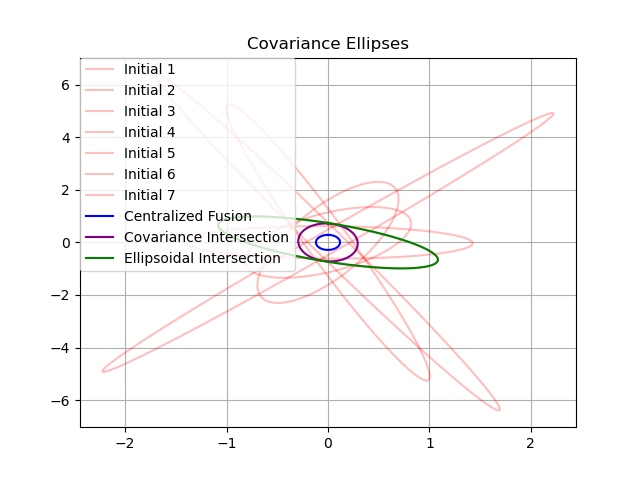
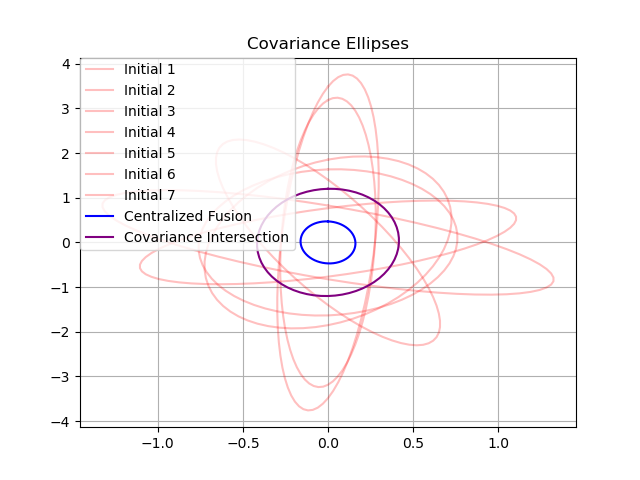
Ellipsoidal still does not work however does not crash entire thing

diff --git a/fusionAlgorithms/ellipsoidalIntersection.py b/fusionAlgorithms/ellipsoidalIntersection.py
@@ -1,45 +1,49 @@
 import numpy as np
 import numpy.linalg as LA
 from scipy.linalg import sqrtm
+from scipy.linalg import svd
 from tqdm import tqdm
 
+
 def eigen_decompostiion(A):
-    #A=S*D*S^-1
-    d, S = LA.eigh(A)
-    D = np.diag(d)
-    return S, D
+    U, s, _ = svd(A)
+    return U, np.diag(s)
 
 
 def EI_fusion(P_i_orig, P_j_orig, mu_i, mu_j):
+    P_i = np.copy(P_i_orig)
+    P_i_inv = LA.inv(P_i)
+    P_j = np.copy(P_j_orig)
+    P_j_inv = LA.inv(P_j)
+    dims = P_i_orig.shape[0]
     #Find mutual covariance and mutual mean
     #For mutual covariance perform eigen decomposition on P_i
-    P_i = np.copy(P_i_orig)
-    P_j = np.copy(P_j_orig)
-    dims = P_i.shape[0]
     S_i, D_i = eigen_decompostiion(P_i)
-    P_prime_j = LA.inv(D_i)**0.5 @ LA.inv(S_i) @ P_j @ S_i @ (LA.inv(D_i)**0.5)
+    D_i_sqrt = sqrtm(D_i)
+    D_i_inv_sqrt = LA.inv(D_i_sqrt)
+    P_prime_j =  np.dot(np.dot(np.dot(np.dot(D_i_inv_sqrt, LA.inv(S_i)), P_j), S_i), D_i_inv_sqrt) 
     S_j, D_j = eigen_decompostiion(P_prime_j)
-    D_T = np.diag([min(val, 1) for val in np.diagonal(D_j)])
-    P_mut = S_i @ D_i**0.5 @ S_j @ D_T @ LA.inv(S_j) @ D_i**0.5 @ LA.inv(S_i)
+    D_T = np.diag([max(val, 1) for val in np.diagonal(D_j)])
+    P_mut = np.dot(np.dot(np.dot(np.dot(np.dot(np.dot(S_i, D_i_sqrt), S_j), D_T), LA.inv(S_j)), D_i_sqrt), LA.inv(S_i))
     #Mutual Mean formula 
     #W_i = P_i^-1 - P_mut^-1 
     #W_j = P_j^-1 - P_mut^-1 
     #mut_mu = (W_i + W_j)^-1 * (W_i*mu_i + W_j * mu_j)
     #Cannot guarantee W_i and W_j are positive definite (Need to add slight identity matrix)    
-    H = LA.inv(P_i) + LA.inv(P_j)-2*LA.inv(P_mut)
+    H = LA.inv(P_i) + LA.inv(P_j)- np.multiply(2, LA.inv(P_mut))
     #H is a fishers matrix and represents input information (if 0 there is an issue)
+    P_mut_inv = LA.inv(P_mut)
     eta = 0
     if LA.det(H) == 0:
-        e_vals, _ = LA.eigh(H)
-        e_vals = np.where(e_vals==0, np.inf, e_vals)
-        eta = np.amin(e_vals)
-    if eta == np.inf:
-        print(eta)
-    eta_i = np.multiply(eta,np.identity(dims))
-    W_i = LA.inv(P_i) - LA.inv(P_mut) + eta_i
-    W_j = LA.inv(P_j) - LA.inv(P_mut) + eta_i
-    mu_mut = np.dot(LA.inv(np.add(W_i, W_j).real), np.dot(W_i, mu_i) + np.dot(W_j, mu_j))
-    P_fused = LA.inv(LA.inv(P_i.real) + LA.inv(P_j.real) - LA.inv(P_mut.real))
+        eig_H, _ = np.linalg.eigh(H)
+        smallest_nonzero_ev = min(list(filter(lambda x: x != 0, eig_H)))
+        eta = 0.0001 * smallest_nonzero_ev
+    eta_I = np.multiply(eta,np.identity(dims))
+    first_term = LA.inv(P_i_inv + P_j_inv - np.multiply(2, P_mut_inv) + np.multiply(2, eta_I))
+    second_term = np.dot(P_j_inv - P_mut_inv + eta_I, mu_i) + np.dot(P_i_inv - P_mut_inv + eta_I, mu_j)    
+    mu_mut = np.dot(first_term, second_term)
+    # mu_mut = np.dot(LA.inv(np.add(W_i, W_j)), np.dot(W_i, mu_i) + np.dot(W_j, mu_j))
+    P_fused = LA.inv(LA.inv(P_i) + LA.inv(P_j) - LA.inv(P_mut))
     mu_fused = np.dot(P_fused, np.dot(LA.inv(P_i), mu_i) + np.dot(LA.inv(P_j), mu_j) - np.dot(LA.inv(P_mut), mu_mut))
     return mu_fused, P_fused
 
@@ -56,16 +60,16 @@ def ellipsoidalIntersection(sensor_readings, sensor_covariances, N_time_steps, n
     print("Ellipsoidal Intersection...")
     for i in tqdm(range(N_time_steps)):
         for j in range(N_agents):
-            s_mu = sensor_readings[j]
-            s_cov = sensor_covariances[j]
+            s_mu = np.copy(sensor_readings[j])
+            s_cov = np.copy(sensor_covariances[j])
             for k in neighbors[j][0]:
-                s_mu, s_Cov = EI_fusion(s_cov, sensor_covariances[k], s_mu, sensor_readings[k])
+                s_mu, s_cov = EI_fusion(s_cov, sensor_covariances[k], s_mu, sensor_readings[k])
             next_data[j] = [s_mu, s_cov]
             if(calculate_KL):
-                dist = multivariate_normal(sensor_readings[j], sensor_covariances[j])
+                dist = multivariate_normal(next_data[j][0], next_data[j][1])
                 KL_div[j].append(compute_KL(true_dist, dist, KL_inp))
             if(calculate_det):
-                determinant_progression[j].append(LA.det(sensor_covariances[j]))
+                determinant_progression[j].append(LA.det(next_data[j][1]))
         for k in range(N_agents):
             sensor_readings[k], sensor_covariances[k] = next_data[k][0], next_data[k][1] 
 

diff --git a/main.py b/main.py
@@ -151,9 +151,14 @@ sensor_mus_CI, sensor_covs_CI, KL_div_CI, determinants_CI = covarianceIntersecti
 plot_ellipse(sensor_covs_CI[0], ax, "Covariance Intersection", alpha_val=1, color_def='purple')
 
 #Ellipsoidal Intersection Fusion
-sensor_mus_Ellip, sensor_covs_Ellip, KL_div_Ellip, determinants_Ellip = ellipsoidalIntersection(np.copy(sensor_mus), np.copy(sensor_covs), N_time_steps, neighbors, N_agents, KL_inputs, P_centralized, calculate_KL=calculate_KL_guard, calculate_det=calculate_covariance_det)
-print(sensor_covs_Ellip[0])
-plot_ellipse(sensor_covs_Ellip[0], ax, "Ellipsoidal Intersection", alpha_val=1, color_def='green')
+ellip_worked = True
+try:
+    sensor_mus_Ellip, sensor_covs_Ellip, KL_div_Ellip, determinants_Ellip = ellipsoidalIntersection(np.copy(sensor_mus), np.copy(sensor_covs), N_time_steps, neighbors, N_agents, KL_inputs, P_centralized, calculate_KL=calculate_KL_guard, calculate_det=calculate_covariance_det)
+    print(sensor_covs_Ellip[0])
+    plot_ellipse(sensor_covs_Ellip[0], ax, "Ellipsoidal Intersection", alpha_val=1, color_def='green')
+except:
+    ellip_worked = False
+    print("Ellipsoidal Convergence Failed")
 
 plt.legend(loc='upper left', borderaxespad=0.)
 plt.grid(b = True)
@@ -166,8 +171,9 @@ output_data = []
 output_data.append(["Centralized Fusion", np.linalg.det(fused_cov), "NA", fused_mu])
 Q = multivariate_normal(sensor_mus_CI[0], sensor_covs_CI[0])
 output_data.append(["Covariance Intersection", np.linalg.det(sensor_covs_CI[0]), compute_KL(P_centralized, Q, KL_inputs), sensor_mus_CI[0]])
-Q = multivariate_normal(sensor_mus_Ellip[0], sensor_covs_Ellip[0])
-output_data.append(["Ellipsoidal Intersection", np.linalg.det(sensor_covs_Ellip[0]), compute_KL(P_centralized, Q, KL_inputs), sensor_mus_Ellip[0]])
+if(ellip_worked):
+    Q = multivariate_normal(sensor_mus_Ellip[0], sensor_covs_Ellip[0])
+    output_data.append(["Ellipsoidal Intersection", np.linalg.det(sensor_covs_Ellip[0]), compute_KL(P_centralized, Q, KL_inputs), sensor_mus_Ellip[0]])
 print_all_data(output_data, sensor_covs)
 
 
@@ -215,5 +221,19 @@ if(calculate_covariance_det):
     plt.savefig("visualizations/Covariance_Progression_CI.png")
     plt.show()
 
+    if(ellip_worked):
+        ax = plt.axes()
+        X_axis = [i for i in range(1, min(len(determinants_Ellip[0]), 50) + 1)]
+        for i in range(N_agents):
+            deter = determinants_Ellip[i][:min(len(determinants_Ellip[i]), 50)]
+            ax.plot(X_axis, deter, label = "Sensor " + str(i + 1))
+
+        plt.ylabel("Determinant of Covariance Matrix")
+        plt.xlabel("Time Steps")
+        plt.title("Covariance Progression EI")
+        plt.legend(loc='upper left', borderaxespad=0.)
+        plt.grid(b = True)
+        plt.savefig("visualizations/Covariance_Progression_EI.png")
+        plt.show()
 
 
